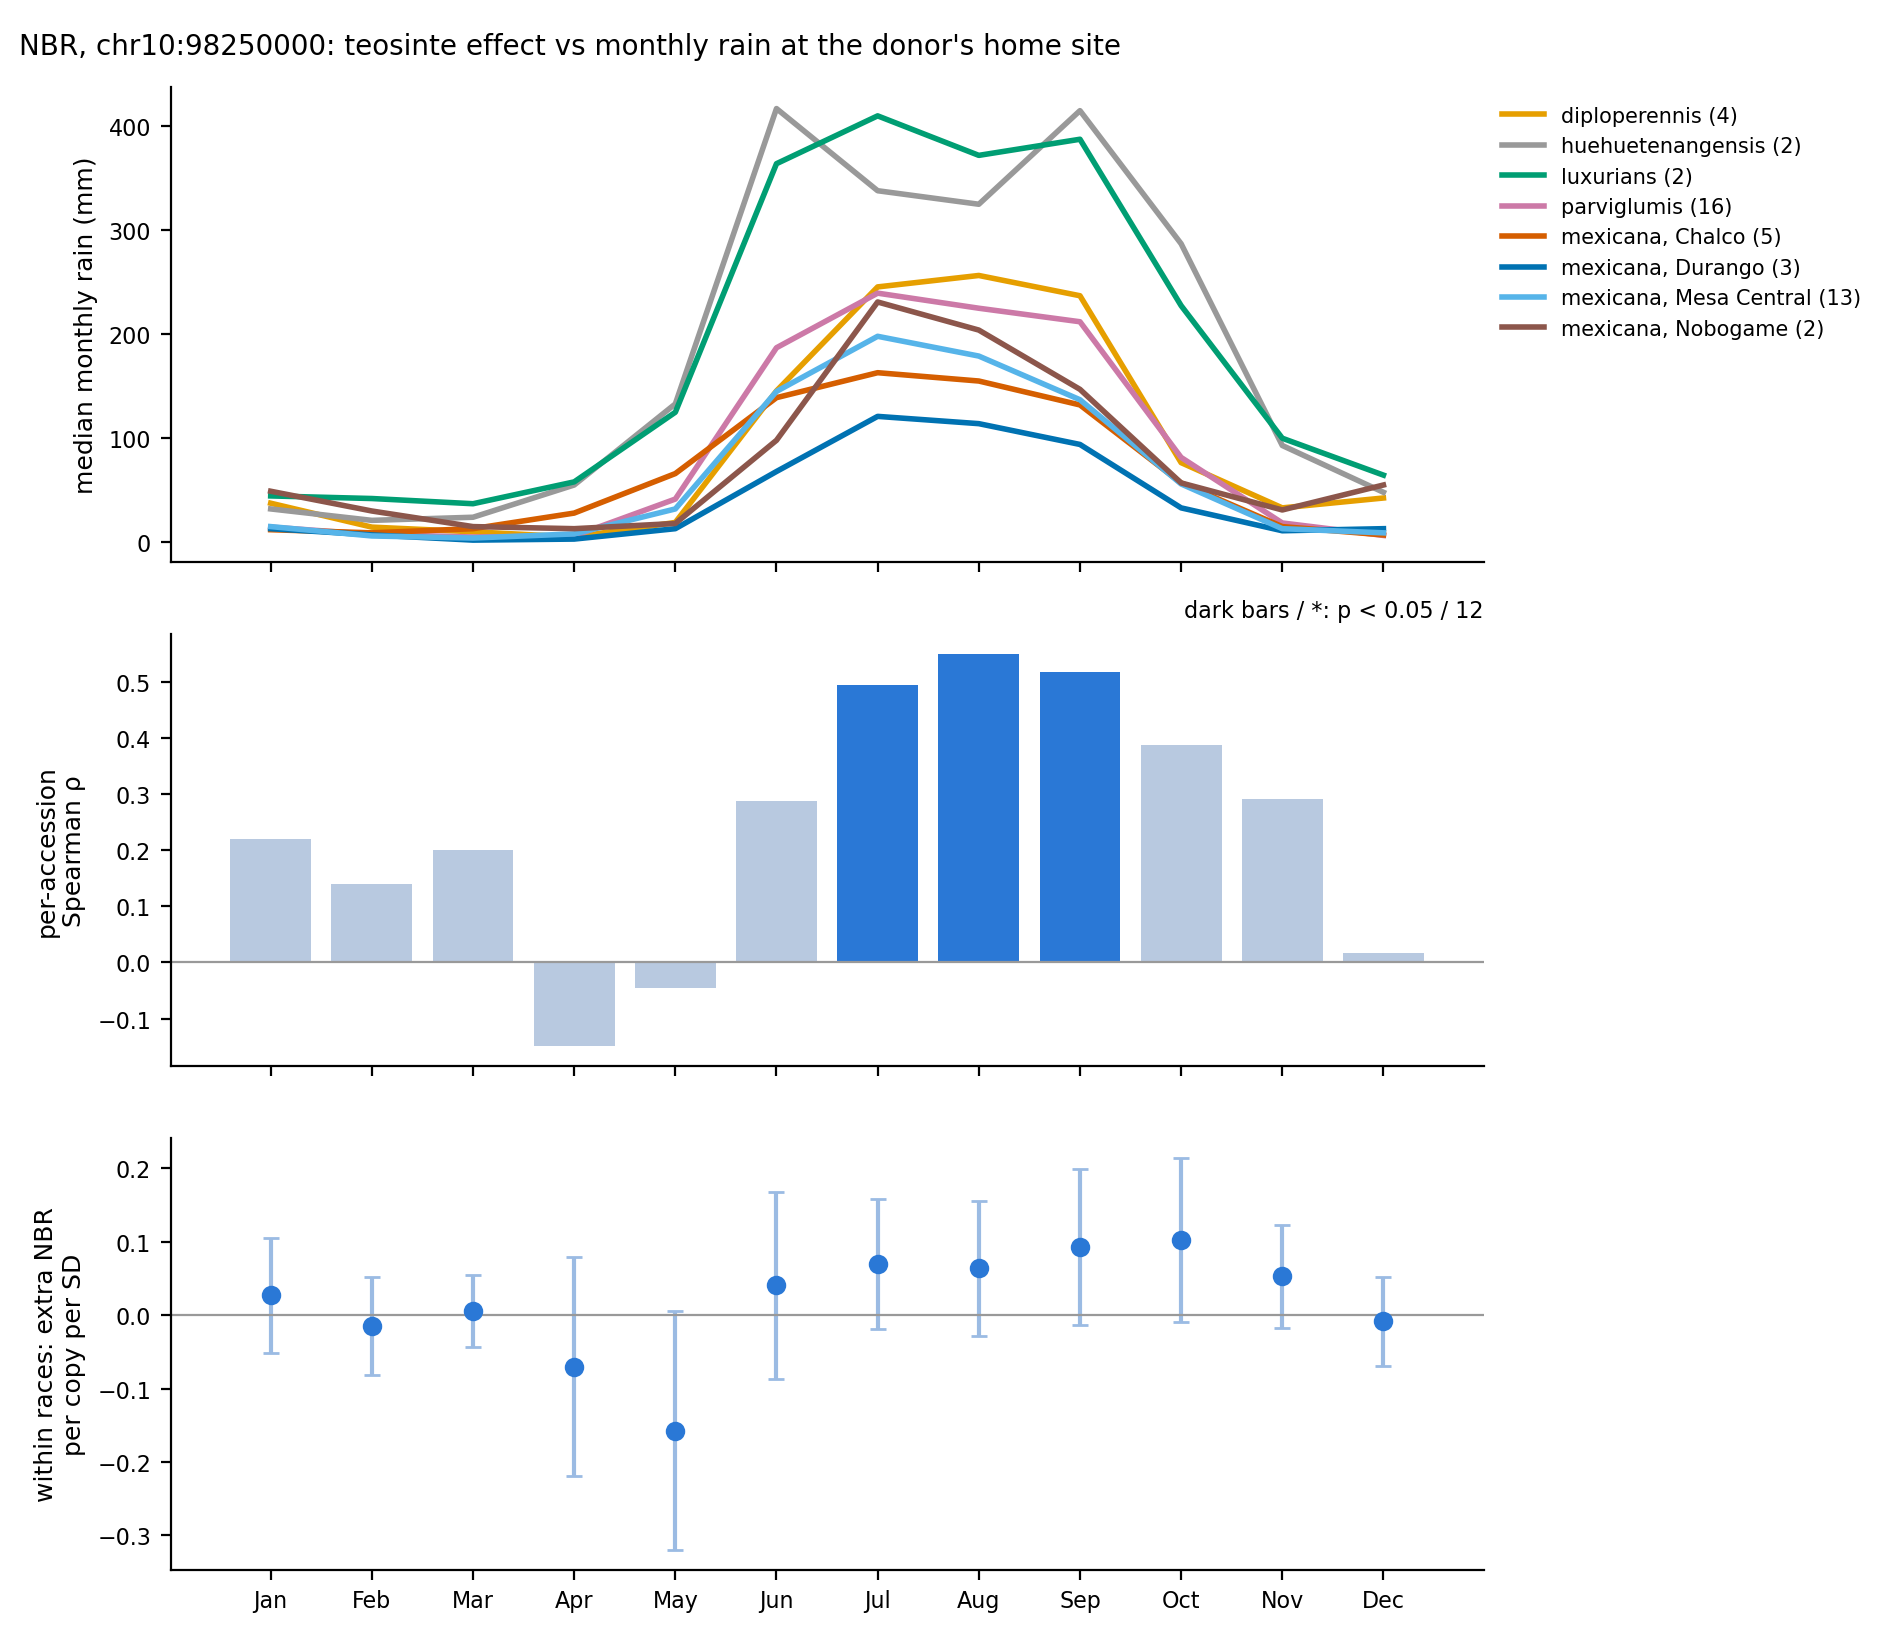
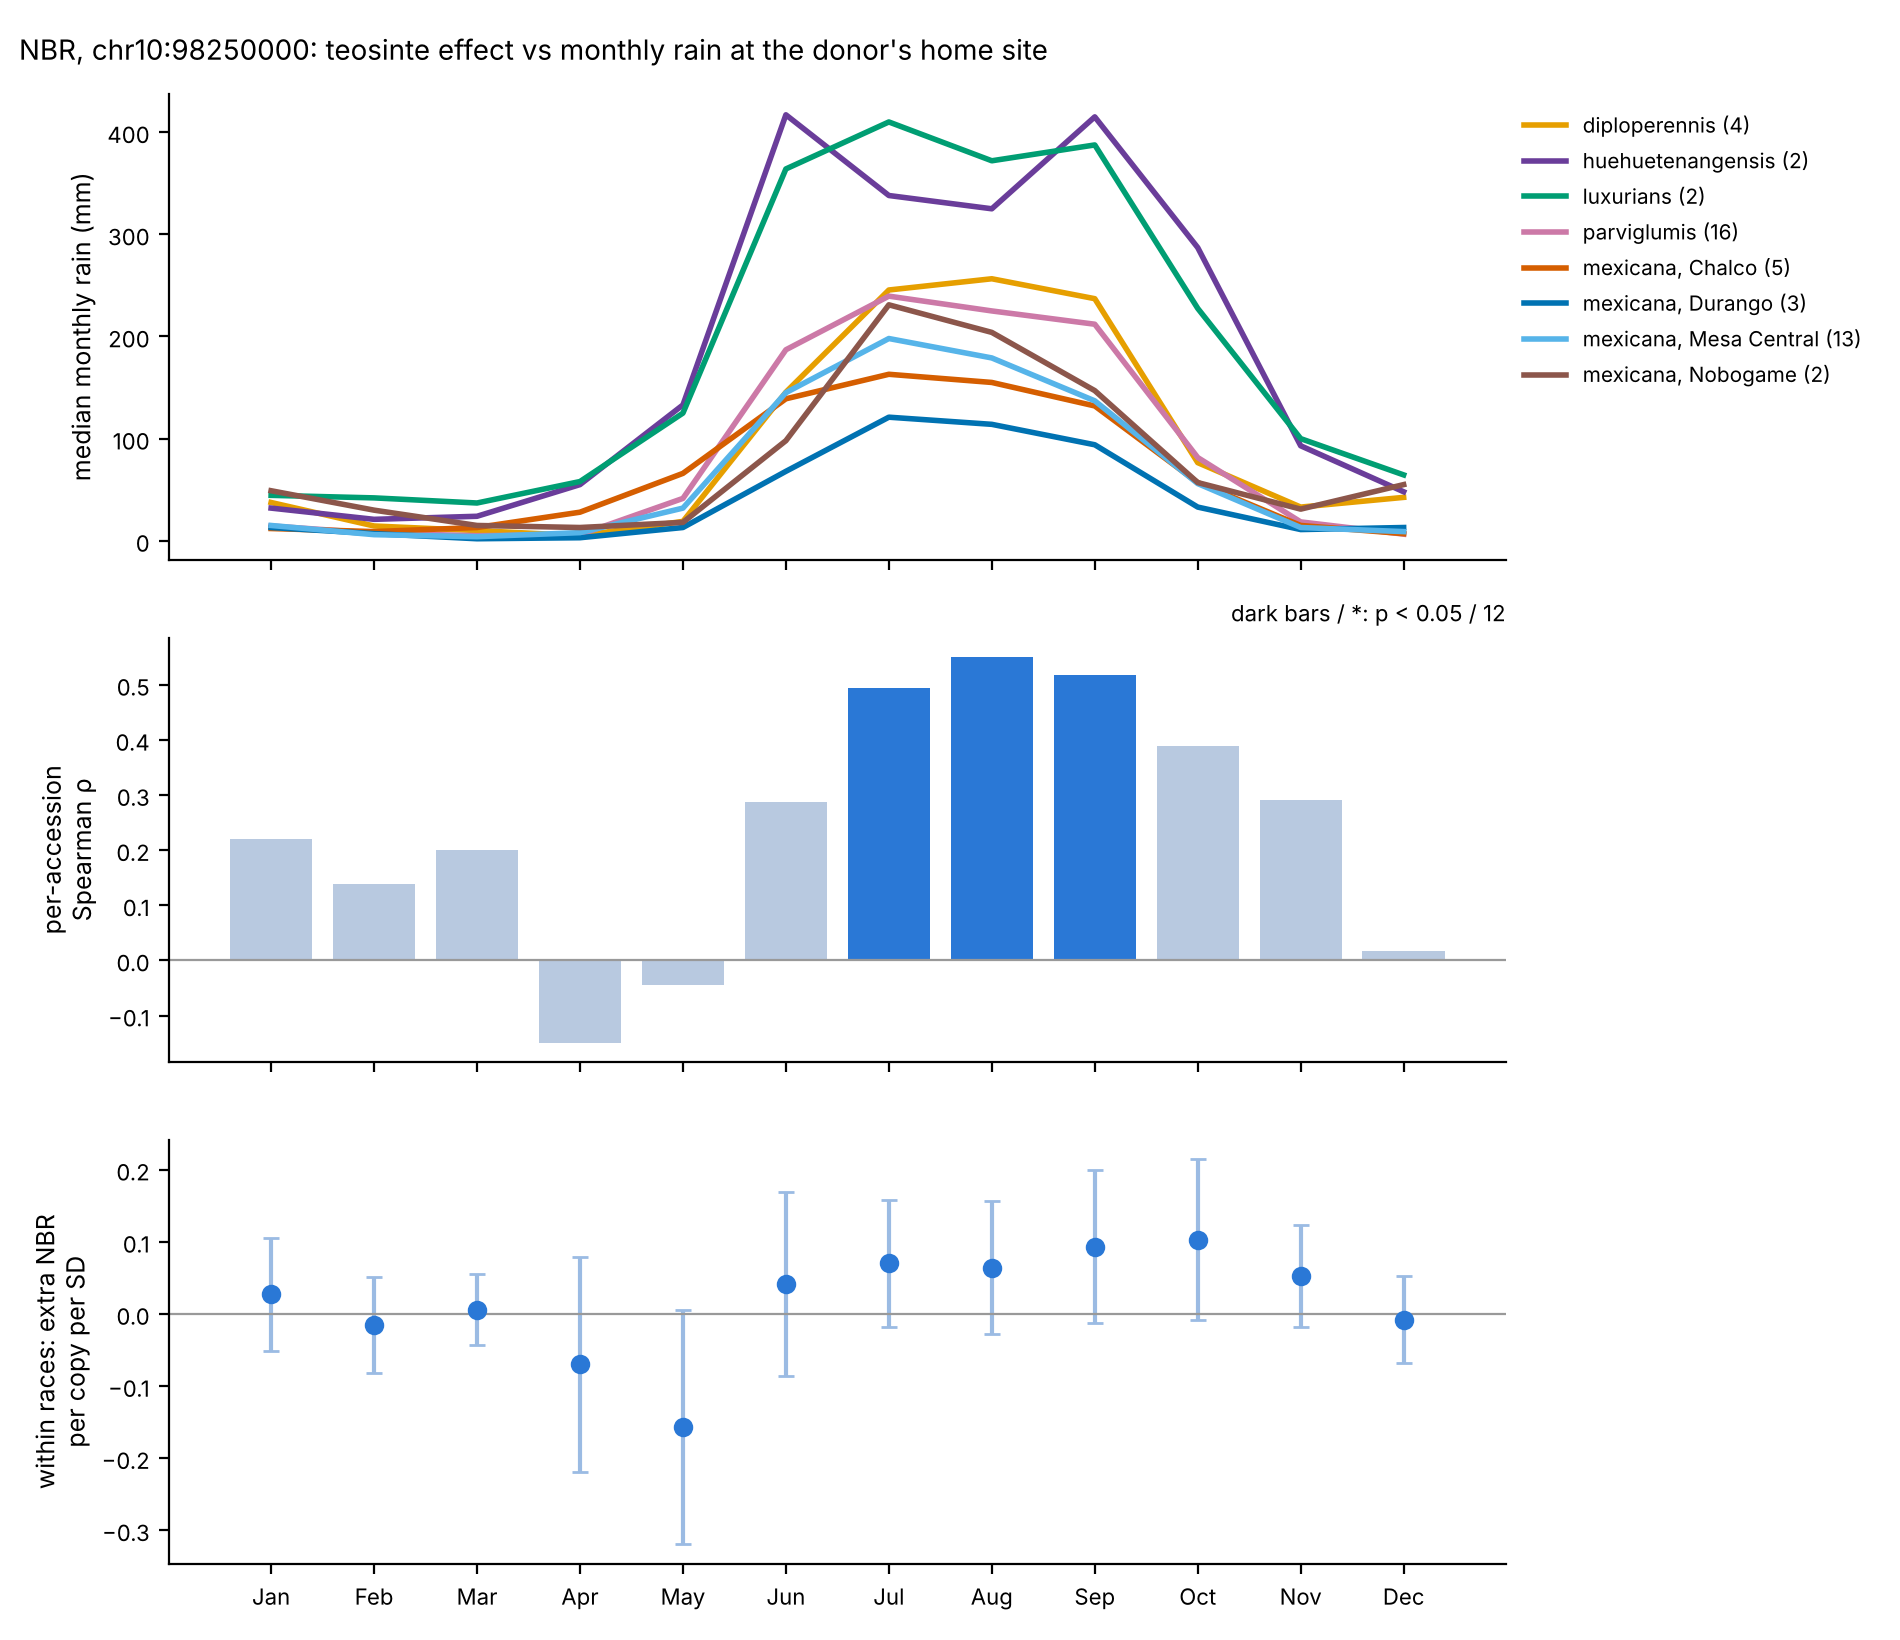
NBR Q8 rain figure: sib effect drawn as a grey line under each row; huehuetenangensis purple

diff --git a/final_script/36e_qtl_rain_figure.py b/final_script/36e_qtl_rain_figure.py
@@ -34,7 +34,7 @@ a = ap.parse_args()
 MON = ["Jan", "Feb", "Mar", "Apr", "May", "Jun", "Jul", "Aug", "Sep", "Oct", "Nov", "Dec"]
 ms = [int(m) for m in a.months.split()]
 season = f"{MON[ms[0] - 1]}–{MON[ms[-1] - 1]}"
-COL = {"Zd": "#E69F00", "Zh": "#999999", "Zl": "#009E73", "Zv": "#CC79A7", "Zx_Chal": "#D55E00", "Zx_Dura": "#0072B2",
+COL = {"Zd": "#E69F00", "Zh": "#6A3D9A", "Zl": "#009E73", "Zv": "#CC79A7", "Zx_Chal": "#D55E00", "Zx_Dura": "#0072B2",
        "Zx_Mesa": "#56B4E9", "Zx_Nobo": "#8C564B"}
 NAME = {"Zd": "diploperennis", "Zh": "huehuetenangensis", "Zl": "luxurians", "Zv": "parviglumis", "Zx_Chal": "mexicana Chalco",
         "Zx_Dura": "mexicana Durango", "Zx_Mesa": "mexicana Mesa Central", "Zx_Nobo": "mexicana Nobogame"}
@@ -86,13 +86,18 @@ for i, q in Gr.iterrows():
     ax[0].plot([q.non, q.wi], [i, i], color=c, lw=2.2, alpha=0.6, zorder=1)
     ax[0].scatter(q.non, i, s=55, facecolor="white", edgecolor=c, lw=2, zorder=2)
     ax[0].scatter(q.wi, i, s=70, color=c, zorder=3)
-    sibtxt = f"   sibs {q.sib:+.2f} ({q.n_fam} fam.)" if q.n_fam else "   sibs –"
-    ax[0].text(max(q.non, q.wi) + 0.03, i, f"{q.wi - q.non:+.2f}  ({q.n_with} plots)", va="center", fontsize=8, color="#3d3d3a")
-    ax[0].text(max(q.non, q.wi) + 0.03, i - 0.33, sibtxt.strip(), va="center", fontsize=7.5, color="#73726c", style="italic")
+    ax[0].text(max(q.non, q.wi) + 0.05, i, f"{q.wi - q.non:+.2f}  ({q.n_with} plots)", va="center", fontsize=8, color="#3d3d3a")
+    if q.n_fam:   # sibs: the within-family difference, drawn from the same starting point (open dot) in light grey
+        ys, x1 = i - 0.34, q.non + q.sib
+        ax[0].plot([q.non, x1], [ys, ys], color="#c3c1b8", lw=2, zorder=1)
+        ax[0].scatter(q.non, ys, s=26, facecolor="white", edgecolor="#a8a69d", lw=1.4, zorder=2)
+        ax[0].scatter(x1, ys, s=32, color="#a8a69d", zorder=3)
+        ax[0].text(max(q.non, x1) + 0.05, ys, f"sibs {q.sib:+.2f}  ({q.n_fam} fam.)", va="center", fontsize=7.5,
+                   color="#73726c", style="italic")
 ax[0].set_yticks(y, [f"{NAME.get(g, g)}  ·  {rr:.0f} mm" for g, rr in zip(Gr.g, Gr.rain)], fontsize=8.5)
 ax[0].set_xlabel(f"mean {a.label} (plot BLUE)", fontsize=9)
 ax[0].set_title(f"a  Plots without (○) and with (●) the segment,\n    ordered by median {season} rain at the donors' sites\n"
-                f"    grey: within BC2 families (carrier minus non-carrier sibs);\n"
+                f"    grey line below: the same within BC2 families (carrier minus non-carrier sibs);\n"
                 f"    {len(Fm)} families, mean {Fm['diff'].mean():+.2f}, Wilcoxon p = {p_sib:.2g}",
                 fontsize=9, loc="left")
 ax[0].set_xlim(right=ax[0].get_xlim()[1] + 0.25)

diff --git a/final_script/36b_qtl_env_accession.py b/final_script/36b_qtl_env_accession.py
@@ -38,13 +38,11 @@ ap.add_argument("--out_prefix", required=True)
 a = ap.parse_args()
 LAB = {"aridity": "aridity index of the home site (higher = more humid)", "nitrogen_0_5cm": "topsoil nitrogen at the home site (cg/kg)",
        "BIO12": "annual precipitation (mm)", "BIO18": "precipitation of warmest quarter (mm)", "elevation": "elevation (m)"}
-COL = {"Zd": "#E69F00", "Zh": "#56B4E9", "Zl": "#009E73", "Zv": "#CC79A7", "Zx": "#0072B2",
+COL = {"Zd": "#E69F00", "Zh": "#6A3D9A", "Zl": "#009E73", "Zv": "#CC79A7", "Zx": "#0072B2",
        "Zx_Chal": "#D55E00", "Zx_Dura": "#0072B2", "Zx_Mesa": "#56B4E9", "Zx_Nobo": "#8C564B"}
 NAME = {"Zd": "diploperennis", "Zh": "huehuetenangensis", "Zl": "luxurians", "Zv": "parviglumis", "Zx": "mexicana",
         "Zx_Chal": "mexicana, Chalco", "Zx_Dura": "mexicana, Durango", "Zx_Mesa": "mexicana, Mesa Central",
         "Zx_Nobo": "mexicana, Nobogame"}
-if a.group_col == "SUBTAXON":
-    COL["Zh"] = "#999999"
 L = a.layers.split()
 
 P = pd.read_csv(f"{a.assoc_in}/pheno.csv")

diff --git a/final_script/36d_month_profile.py b/final_script/36d_month_profile.py
@@ -79,7 +79,7 @@ print(R.to_string(index=False, float_format=lambda v: f"{v:.3g}"))
 
 x = np.arange(12)
 fig, ax = plt.subplots(3, 1, figsize=(9.5, 8.2), sharex=True, gridspec_kw={"height_ratios": [1.1, 1, 1]})
-COL = {"Zd": "#E69F00", "Zh": "#999999", "Zl": "#009E73", "Zv": "#CC79A7", "Zx_Chal": "#D55E00", "Zx_Dura": "#0072B2",
+COL = {"Zd": "#E69F00", "Zh": "#6A3D9A", "Zl": "#009E73", "Zv": "#CC79A7", "Zx_Chal": "#D55E00", "Zx_Dura": "#0072B2",
        "Zx_Mesa": "#56B4E9", "Zx_Nobo": "#8C564B"}
 NAME = {"Zd": "diploperennis", "Zh": "huehuetenangensis", "Zl": "luxurians", "Zv": "parviglumis", "Zx_Chal": "mexicana, Chalco",
         "Zx_Dura": "mexicana, Durango", "Zx_Mesa": "mexicana, Mesa Central", "Zx_Nobo": "mexicana, Nobogame"}

diff --git a/README.md b/README.md
@@ -1541,7 +1541,7 @@ Number of stem nodes that carry brace roots. 8 regions, 3 hold (Bonferroni over 
 
   ![NBR Q8 against rainy-season rain at the donor's home site](figures/fix1/NBR_Q8_rain.png)
 
-  - **(a) By taxon and race** (*mexicana* split into its four races): the segment adds almost nothing in the driest races (Durango −0.08, Chalco +0.08, Mesa Central +0.02 nodes) and the most in the wetter taxa (*parviglumis* +0.37, *diploperennis* +0.63). The plots without the segment hardly differ between groups (0.95–1.10 nodes), so a taxon's average NBR does not change much; the difference is in what its allele at chr10 98 Mb does. **The same holds within families (grey labels):** comparing sibs from the same BC2 plant with and without the segment (same donor plant, same allele, much of the same background; 72 families with at least one of each), the segment adds +0.23 nodes on average (Wilcoxon p = 0.001), about +0.5 in *parviglumis* (+0.56, 12 families) and *diploperennis* (+0.47, 18 families) and nothing or less in the dry races (Durango −0.27, 14 families; Mesa Central +0.05, 9). So the effect is not a background difference between plots. Chalco (3 families) and *luxurians* and *huehuetenangensis* (2–3 each) have too few families to read.
+  - **(a) By taxon and race** (*mexicana* split into its four races): the segment adds almost nothing in the driest races (Durango −0.08, Chalco +0.08, Mesa Central +0.02 nodes) and the most in the wetter taxa (*parviglumis* +0.37, *diploperennis* +0.63). The plots without the segment hardly differ between groups (0.95–1.10 nodes), so a taxon's average NBR does not change much; the difference is in what its allele at chr10 98 Mb does. **The same holds within families (grey lines and labels under each row, drawn from the same open dot):** comparing sibs from the same BC2 plant with and without the segment (same donor plant, same allele, much of the same background; 72 families with at least one of each), the segment adds +0.23 nodes on average (Wilcoxon p = 0.001), about +0.5 in *parviglumis* (+0.56, 12 families) and *diploperennis* (+0.47, 18 families) and nothing or less in the dry races (Durango −0.27, 14 families; Mesa Central +0.05, 9). So the effect is not a background difference between plots. Chalco (3 families) and *luxurians* and *huehuetenangensis* (2–3 each) have too few families to read.
   - **(b) By accession:** the effect rises with July–October rain at the donor's site (Spearman ρ = 0.54, p = 0.0001, 47 accessions).
   - **It is rainy-season rain, not dry-season rain.** Month by month, the per-accession ρ is 0.49–0.55 for July, August and September (each p < 0.05/12) and near 0 for December–May (figure below).
 
